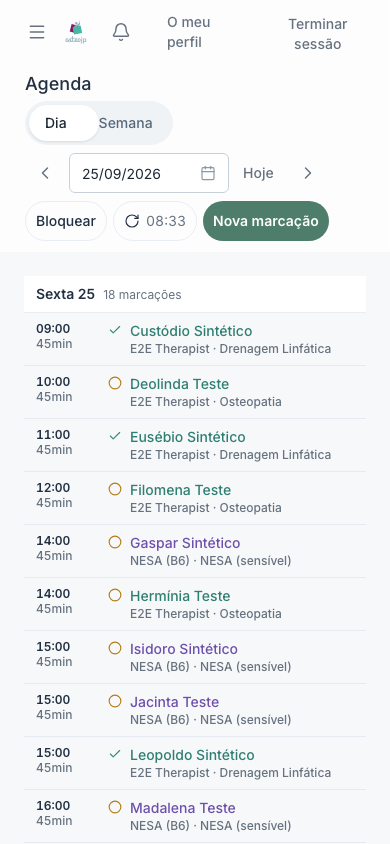
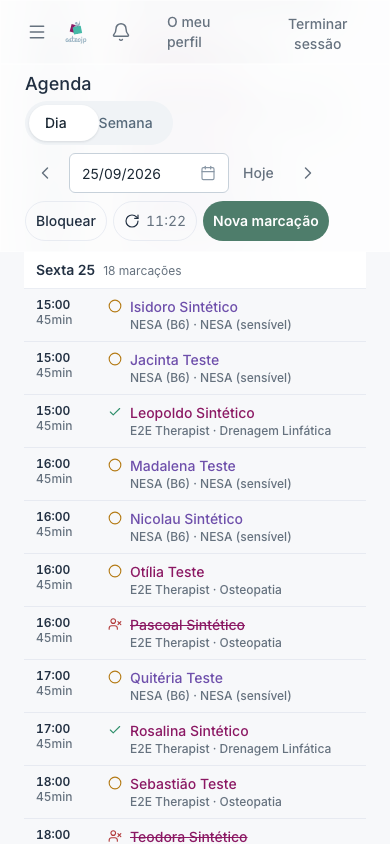
AGENDA-MOBILE-WEEK round 9d: the screenshots frame the twin pair and Friday's two chips together
Neither committed frame showed Friday's "+2" chip: Semana was captured at
the top of the page, and Dia stopped at Friday's first 16:00 row. Both are
retaken on the throwaway stack from the same synthetic week, 390x844 at a
device scale factor of 1, with the real clock (11:22 Lisbon, Thursday).

Semana is scrolled so that 10:00 sits under the pinned day header. The
frame then holds the pinned header and toolbar, all seven day columns, the
now line, the Wednesday twin pair (person left, the machine is known to
this page), the Sunday booking, and Friday's "+1" and "+2" chips. Dia is
scrolled to Friday's first 15:00 row, so it lists every row the two chips
stand for. The README says how each frame was scrolled and what lies above
and below it (the rows before 10:00, the evening and the service legend).

Claude-Session: https://claude.ai/code/session_01VtYiJ7CtLRhV12zhrQaRkP

diff --git a/docs/design/agenda-mobile-week/README.md b/docs/design/agenda-mobile-week/README.md
@@ -9,29 +9,44 @@ a shared machine (NESA). Every name is invented (patient names end in "Teste" or
 "Sintético"), and nothing in it comes from real data. The session is the e2e
 therapist's, and the week is Monday 21 to Sunday 27 September 2026.
 
-THE CLOCK. Both shots use the real clock. They were taken at 08:32 Lisbon time on
+THE CLOCK. Both shots use the real clock. They were taken at 11:22 Lisbon time on
 Thursday 24 September, inside the grid's 08:00 to 21:00 window, so no clock was
 fixed. The Next.js development indicator is hidden in both captures; it is not
 part of the page.
 
+THE SCROLL. On a phone the shell header, the toolbar and the day header stay
+pinned at the top while the rows scroll under them, so one frame holds about
+eight hours of the grid. Each page was scrolled before its capture:
+- Semana first made its own one-time scroll to the now line. The capture script
+  then moved it so that 10:00 sits right under the pinned day header, 20 pixels
+  from where the page's own scroll had put it.
+- Dia was scrolled so that Friday's first 15:00 row sits right under its pinned
+  day header.
+
 - `agenda-mobile-week-semana-390x844.png`: Semana, the compressed week grid.
-  - The header shows the menu, the logo, the bell, "O meu perfil" and "Terminar
-    sessão" (Q-B6-11). The toolbar has Dia and Semana, the date, Hoje and the
-    arrows on one line, then Bloquear, Atualizar (its refresh icon beside the time,
-    Q-B6-10) and Nova marcação. Nothing scrolls sideways.
-  - The grid has seven columns, Seg 21 to Dom 27. Dom shows because the synthetic
-    week has a Sunday booking. Qui 24 is marked as today, and the red now line
-    crosses Thursday just after 08:30. At 08:32 the page does not need to scroll
-    to reach it.
-  - The first screen runs from 08:00 to about 15:45. Blocks are coloured by
-    service. Each one shows its whole start time, the patient's first name and
-    its status glyph; a half-lane block puts the name on a line of its own.
+  - Pinned at the top: the header (the menu, the logo, the bell, "O meu perfil"
+    and "Terminar sessão", Q-B6-11) and the toolbar (Dia and Semana, the date,
+    Hoje and the arrows on one line, then Bloquear, Atualizar with its refresh
+    icon beside the time, Q-B6-10, and Nova marcação). Nothing scrolls sideways.
+  - The day header has seven columns, Seg 21 to Dom 27. Dom shows because the
+    synthetic week has a Sunday booking, drawn at 10:00. Qui 24 is marked as
+    today, and the red now line crosses Thursday just after 11:20.
+  - The frame runs from 10:00 to about 18:05. Blocks are coloured by service.
+    Each one shows its whole start time, the patient's first name and its status
+    glyph; a half-lane block puts the name on a line of its own.
   - Concurrent rows split the column into two lanes. The twin pair on Wednesday
     at 10:30 (the same patient on the therapist and on the machine) is drawn side
-    by side. At the foot of the screen, Friday at 15:00 draws two blocks and a
-    small dark "+1" chip on their glyph line. Friday's later "+2" and the service
-    legend are further down the page.
+    by side, the therapist's row on the left: the machine is at the therapist's
+    clinic, so this page knows it is a machine.
+  - Friday at 15:00 draws two blocks and a small dark "+1" chip on their glyph
+    line, and Friday at 16:00 draws two blocks and a "+2" chip the same way
+    (Q-B6-1). A chip opens Dia for Friday.
+  - Above the frame are the rows before 10:00. Below it are the rows after about
+    18:00 and the service legend (Q-B6-3).
 - `agenda-mobile-week-dia-390x844.png`: Dia for Friday 25, the unchanged AGMOB-01
-  list with the same toolbar. Each row shows the start time, the duration, the
-  status glyph, the patient, and the practitioner and service. Machine rows
-  (NESA (B6)) are listed with the therapist's.
+  list, under the same pinned header and toolbar and its own pinned day header.
+  The frame shows Friday's rows from 15:00 to 18:00, so every row that Semana's
+  two chips stand for is listed here, the no-show struck through. Each row shows
+  the start time, the duration, the status glyph, the patient, and the
+  practitioner and service. Machine rows (NESA (B6)) are listed with the
+  therapist's.
